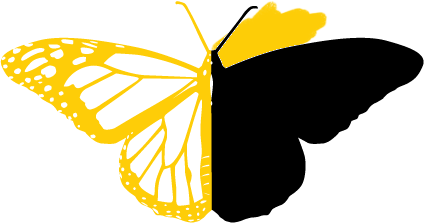
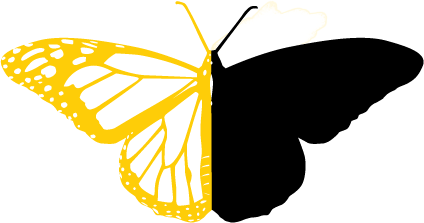
update

Changed region(s): [[0.4906, 0.0, 0.7972, 0.296]]

diff --git a/Day1_3-11-2020/css/style.css b/Day1_3-11-2020/css/style.css
@@ -30,7 +30,7 @@ body,html {
 	width: 100%;
 	height: 330px;
 	background-color: black;
-	z-index: -100;
+	
 }
 
 .header1 {
@@ -40,16 +40,16 @@ body,html {
 	position: relative;
 	top: 0;
 	left: 50%;
-	z-index: 1;
+
 }
 
 .imgh {
 
-    width: 200px;
-  
+    width: 200px;  
     position: relative;   
     top: 50px; 
-    right: 100px;
+	right: 100px;
+	filter: drop-shadow(20px 20px 20px black);
 }
 
 .header2 h1 {
